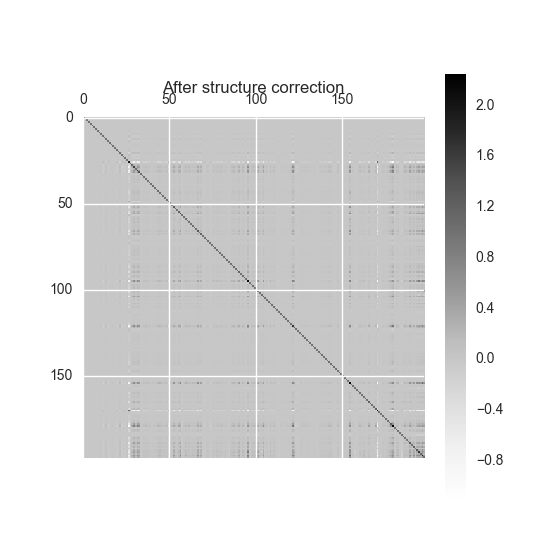
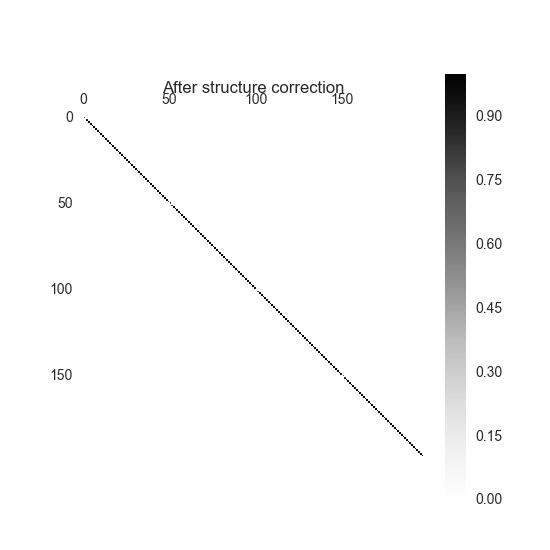
solved problem of inverse

diff --git a/pseudo_snps.py b/pseudo_snps.py
@@ -41,11 +41,9 @@ def normalize(matrix, direction = 0):
     """Normalizes a matrix default (columns) to mean 0 and var 1."""
     mean = np.mean(matrix, axis= direction)
     std = np.std(matrix, axis= direction)
-    if direction == 1:
-        mean = mean[:, None]
-        std = std[:, None]
 
     matrix = (matrix - mean) / std
+    #matrix = matrix / std
     return matrix
 
 
@@ -85,7 +83,6 @@ def pseudo_snps(snps_file='C:/Users/MariaIzabel/Desktop/MASTER/PHD/Bjarnicode/ne
     """
     Take the genes concatenate their snps, calculate GRM, mean adjust the individuals, decomposition, calculate pseudo snps.
     """
-    #maf_list_mask = []
     snp_matrices = []
     matrix_lengths = []
     matrix_file_paths = []
@@ -116,13 +113,14 @@ def pseudo_snps(snps_file='C:/Users/MariaIzabel/Desktop/MASTER/PHD/Bjarnicode/ne
             strains = data_g['strains'][...]
             if len(strains) < max_strain_num:
                 strain_mask = strain_index.get_indexer(strains)
+
+                # Snps M x N
                 snps = data_g['norm_snps'][...]
 
                 # Minor allele frequence filtering
                 freqs = data_g['freqs'][...]
                 mafs = sp.minimum(freqs, 1 - freqs)
                 maf_mask = mafs > min_maf
-                #maf_list_mask.append(maf_mask)
                 snps_maf = snps[maf_mask]
                 trues += np.sum(maf_mask)
 
@@ -151,7 +149,7 @@ def pseudo_snps(snps_file='C:/Users/MariaIzabel/Desktop/MASTER/PHD/Bjarnicode/ne
     print 'The full genotype matrix has shape %f' % full_genotype_matrix.shape[1]
 
     print('Input the matrix if still there is a nan...')
-    #full_genotype_matrix = normalize(full_genotype_matrix, direction = 0) 
+    full_genotype_matrix = normalize(full_genotype_matrix, direction = 0) 
 
     print("The variance by column is:...")
     print np.var(full_genotype_matrix, axis = 0)
@@ -181,15 +179,17 @@ def pseudo_snps(snps_file='C:/Users/MariaIzabel/Desktop/MASTER/PHD/Bjarnicode/ne
         full_genotype_matrix_temp = mean_adj(full_genotype_matrix_temp)    
 
         print('After mean adjust the individuals:')
-        #print np.mean(full_genotype_matrix_temp, axis = 1)
+        print np.mean(full_genotype_matrix_temp, axis = 1)
 
         # 2. Calculate genome-wide covariance matrix (Kinship)
         print("Calculating genotype matrix covariance...")
-        #cov = np.dot(full_genotype_matrix_temp, full_genotype_matrix_temp.T) / full_genotype_matrix_temp.shape[1]
-        cov = np.cov(full_genotype_matrix_temp)
+        cov = np.dot(full_genotype_matrix_temp, full_genotype_matrix_temp.T) / full_genotype_matrix_temp.shape[1]
+        evals, evecs = (linalg.eigh(cov))
+        print sorted(evals)
         
         try:
-            inv_cov_sqrt = linalg.cholesky(linalg.inv(cov))
+            sqrt = linalg.cholesky(cov)
+            inv_cov_sqrt = linalg.inv(sqrt.T)
         except:
             continue
         not_solved = False
@@ -202,7 +202,17 @@ def pseudo_snps(snps_file='C:/Users/MariaIzabel/Desktop/MASTER/PHD/Bjarnicode/ne
 
     # 3. Calculate the pseudo-SNPs (x*A)
     print("Calculating pseudo SNPS...")
-    pseudo_snps = np.column_stack(np.dot(inv_cov_sqrt, col) for col in full_genotype_matrix.T)
+    pseudo_snps = np.dot(inv_cov_sqrt, full_genotype_matrix)
+
+    print("The variance by column is:...")
+    print np.var(full_genotype_matrix, axis = 0)
+
+    print("The mean by columns is:...")
+    print np.mean(full_genotype_matrix, axis = 0)
+
+    print("Dimension")
+    print full_genotype_matrix.shape
+
     del full_genotype_matrix_temp
     del full_genotype_matrix
     
@@ -227,7 +237,6 @@ def pseudo_snps(snps_file='C:/Users/MariaIzabel/Desktop/MASTER/PHD/Bjarnicode/ne
             strains_list_mask = strain_list_masks[i]
             snps = pseudo_snps[strains_list_mask, start:end]
             strains = strains_list_mask
-            #maf = maf_list_mask[i]
 
             file_name = 'group'+matrix_file_paths[i] # the name of the gene
 
@@ -239,5 +248,5 @@ def pseudo_snps(snps_file='C:/Users/MariaIzabel/Desktop/MASTER/PHD/Bjarnicode/ne
 #pseudo_snps(min_maf=0.05, fig_name='0.05_maf', debug_filter=1, write_files = True)
 #mantel_test.mantel_corrected_nod_genes(fig_name = '0.05_maf.pdf')
 
-#pseudo_snps(min_maf=0.1, fig_name='test_maf', debug_filter=1, write_files = True)
+pseudo_snps(min_maf=0.1, fig_name='test_maf', debug_filter=1, write_files = True)
 mantel_test.mantel_corrected_nod_genes(fig_name = 'test.pdf')
